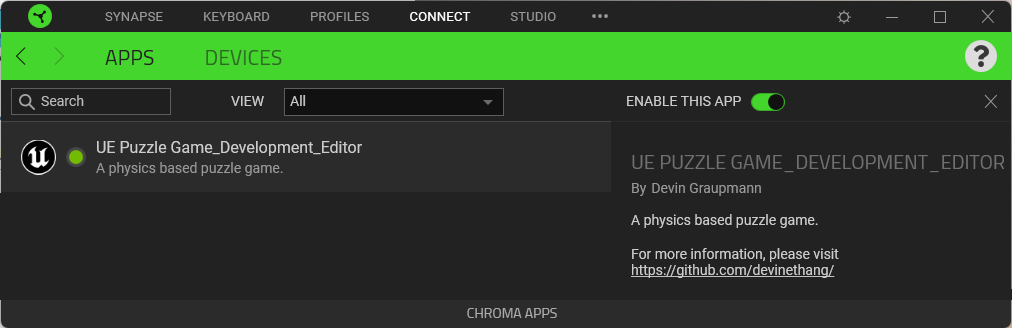
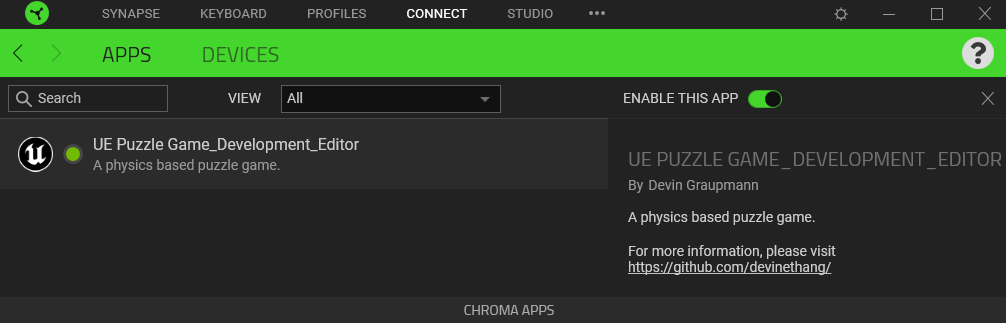
Added Chroma App screenshot

diff --git a/README.md b/README.md
@@ -16,6 +16,10 @@ A simple puzzle game made with `UE 5.5` that uses the built-in [RazerChromaDevic
 
 ![image_11](images/image_11.png)
 
+**AppInfo displays in the `Chroma App`**
+
+![image_12](images/image_12.png)
+
 **Chroma animation assets**
 
 ![image_7](images/image_7.png)
